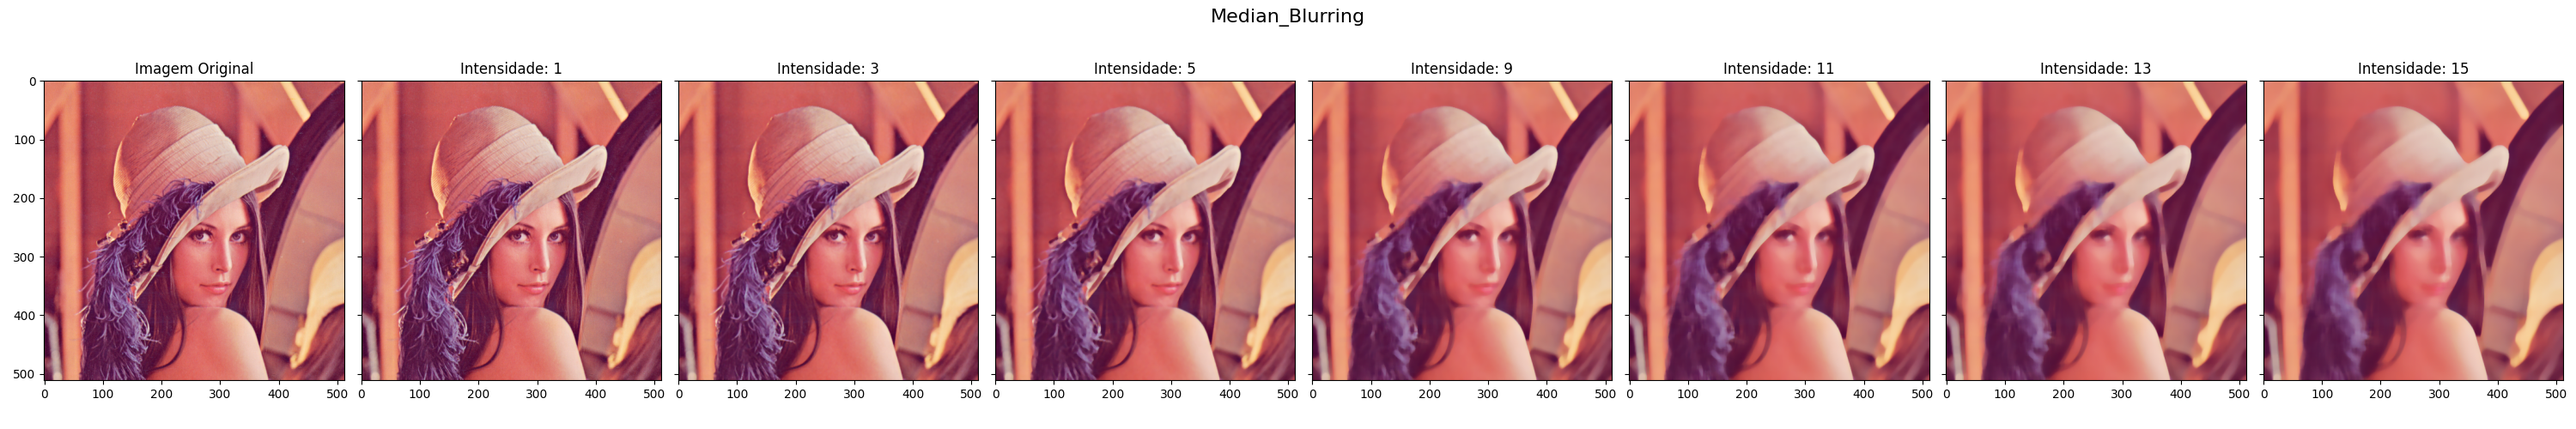
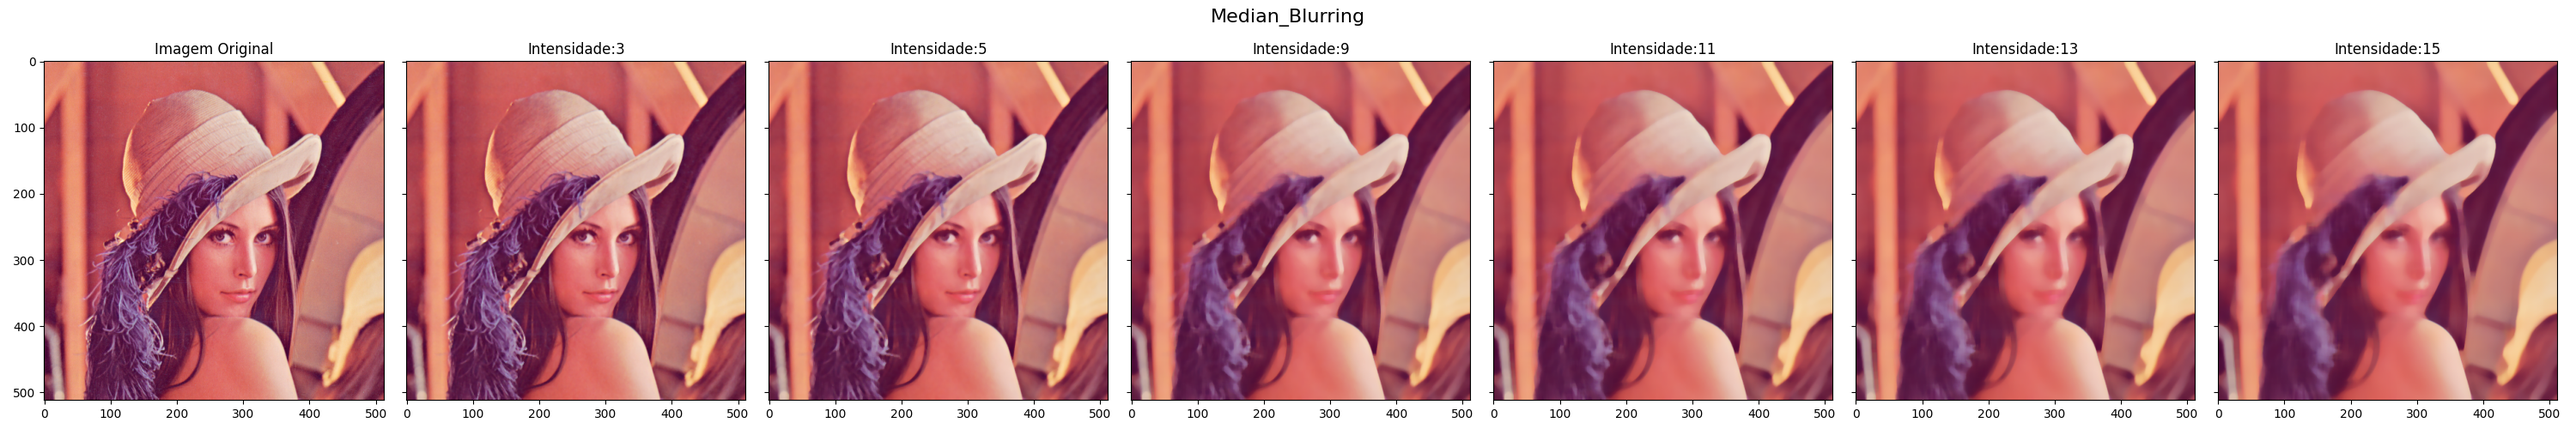
Adicionando diretorio para geração de degradação com Menu

diff --git a/Gera_degrad_com_Menu/gerar_degradacoes.py b/Gera_degrad_com_Menu/gerar_degradacoes.py
@@ -1,0 +1,97 @@
+import cv2
+import numpy as np
+
+class Degradacoes:
+    def __init__(self, caminho):
+        self.caminho = caminho
+        self.img_original = cv2.imread(self.caminho)
+
+    def Gaussian_Blurring(self, k):
+        imagem = cv2.GaussianBlur(self.img_original, (k, k), 0)
+        return imagem
+
+    def Median_Blurring(self, k):
+        imagem = cv2.medianBlur(self.img_original, k)
+        return imagem
+
+    def Brightness(self, parametros):
+        a, b = parametros[0], parametros[1]
+        imagem = cv2.convertScaleAbs(self.img_original, a, b)
+        return imagem
+
+    def Darkening_Brightness(self, g):
+        gamma = -5
+        invGamma = 1 / (gamma * g)
+        table = np.array([((i / 255) ** invGamma) * 255 for i in np.arange(0, 256)])
+        imagem = cv2.LUT(self.img_original.astype(np.uint8), table.astype(np.uint8))
+        return imagem
+
+    def Contrast(self, k):
+        lab = cv2.cvtColor(self.img_original, cv2.COLOR_BGR2LAB)
+        l_channel, a, b = cv2.split(lab)
+        clahe = cv2.createCLAHE(clipLimit=2.0 + k, tileGridSize=(8, 8))
+        cl = clahe.apply(l_channel)
+        limg = cv2.merge((cl, a, b))
+        imagem = cv2.cvtColor(limg, cv2.COLOR_LAB2BGR)
+        return imagem
+
+    def Downsampled(self, k):
+        imagem = cv2.pyrDown(self.img_original, k)
+        return imagem
+
+    def Motion_Blur(self, k):
+        k_v = np.zeros((k, k))
+        k_v[:, int((k - 1) / 2)] = np.ones(k)
+        k_v /= k
+        imagem = cv2.filter2D(self.img_original, -1, k_v)
+        return imagem
+
+    def Gaussian_noise(self, k):
+        image = self.img_original.astype(np.float32)
+        shape = image.shape[:2]
+        var = np.random.uniform(0, 0.1)
+        sigma = var ** 0.5
+        gamma = 0.25
+        alpha = 0.75
+        beta = 1 - alpha
+        gaussian = np.random.normal(loc=k, scale=sigma, size=(shape[0], shape[1], 1)).astype(np.float32)
+        gaussian = np.concatenate((gaussian, gaussian, gaussian), axis=2)
+        gaussian_img = cv2.addWeighted(image, alpha, beta * gaussian, beta, gamma)
+        return gaussian_img
+
+    def JPEG_Compression(self, k):
+        encode_param = [int(cv2.IMWRITE_JPEG_QUALITY), k]
+        result, encimg = cv2.imencode('.jpg', self.img_original, encode_param)
+        decimg = cv2.imdecode(encimg, 1)
+        return result
+
+def menu_degradacoes():
+    print("Escolha uma degradação:")
+    print("1 - Desfoque Gaussiano")
+    print("2 - Desfoque Mediano")
+    print("3 - Ajuste de Brilho")
+    escolha = int(input("Digite o número da degradação desejada: "))
+    return escolha
+
+def aplicar_degradacao(escolha):
+    imagem = r'lenna.png'
+    obj_degradacao = Degradacoes(imagem)
+
+    if escolha == 1:
+        intensidade = int(input("Digite a intensidade do desfoque gaussiano: "))
+        imagem_degradada = obj_degradacao.Gaussian_Blurring(intensidade)
+        mostrar_imagem(imagem_degradada)
+    elif escolha == 2:
+        intensidade = int(input("Digite a intensidade do desfoque mediano: "))
+        imagem_degradada = obj_degradacao.Median_Blurring(intensidade)
+        mostrar_imagem(imagem_degradada)
+    elif escolha == 3:
+        parametros = [float(input("Digite o valor de 'alpha' (1.0 - 3.0): ")), int(input("Digite o valor de 'beta' (0 - 99): "))]
+        imagem_degradada = obj_degradacao.Brightness(parametros)
+        mostrar_imagem(imagem_degradada)
+    # Adicione mais opções conforme necessário
+
+def mostrar_imagem(imagem):
+    plt.imshow(imagem, cmap='gray')
+    plt.axis('off')
+    plt.show()

diff --git a/G_degrad.py b/G_degrad.py
@@ -1,34 +1,55 @@
 import gerar_degradacoes
-import cv2
+import cv2 
 from matplotlib import pyplot as plt
 
 imagem = r'lenna.png'
 
-def mostrar_imagens(degradacao, intensidades, imagens):
-    fig, axes = plt.subplots(nrows=1, ncols=len(intensidades) + 1, figsize=(30, 5), sharex=True, sharey=True)
-    fig.suptitle(degradacao, fontsize=16)
+def mostrar_imagens(degradacao, intensidades, i1,i2,i3,i4,i5,i6,i7):
+    fig,(ax1,ax2,ax3,ax4,ax5,ax6,ax7) = plt.subplots(nrows=1,
+                                                        ncols=7,
+                                                        figsize=(30,5),
+                                                        sharex=True,
+                                                        sharey=True)
+    fig.suptitle(degradacao,fontsize=16)
 
-    axes[0].imshow(imagens[0])
-    axes[0].set_title('Imagem Original')
+    ax1.imshow(i1)
+    ax1.set_title('Imagem Original')
 
-    for i in range(1, len(axes)):
-        axes[i].imshow(imagens[i], cmap='gray', vmin=0, vmax=255)
-        axes[i].set_title(f'Intensidade: {intensidades[i - 1]}')
+    ax2.imshow(i2,cmap='gray')
+    ax2.set_title(f'Intensidade:{intensidades[1]}')
+
+    ax3.imshow(i3,cmap='gray')
+    ax3.set_title(f'Intensidade:{intensidades[2]}')
+
+    ax4.imshow(i4,cmap='gray',vmin=0,vmax=255)
+    ax4.set_title(f'Intensidade:{intensidades[3]}')
+
+    ax5.imshow(i5,cmap='gray',vmin=0,vmax=255)
+    ax5.set_title(f'Intensidade:{intensidades[4]}')
+
+    ax6.imshow(i6,cmap='gray',vmin=0,vmax=255)
+    ax6.set_title(f'Intensidade:{intensidades[5]}')
+
+    ax7.imshow(i7,cmap='gray',vmin=0,vmax=255)
+    ax7.set_title(f'Intensidade:{intensidades[6]}')
 
     plt.tight_layout()
     plt.savefig(f'./graficos/{degradacao}.png')
     plt.show()
 
 obj_degradacao = gerar_degradacoes.Degradacoes(imagem)
+imagens_processadas=[]
 degradacao = 'Median_Blurring'
-intensidades = [1, 3, 5, 9, 11, 13, 15]
+intensidades = [1,3,5,9,11,13,15]
 
-imagens_processadas = [cv2.cvtColor(obj_degradacao.img_original, cv2.COLOR_BGR2RGB)]
 
-for intensidade in intensidades:
+for i, intensidade in enumerate(intensidades):
     if intensidade == 0:
         imagens_processadas.append(cv2.cvtColor(obj_degradacao.img_original, cv2.COLOR_BGR2RGB))
     else:
         imagens_processadas.append(cv2.cvtColor(obj_degradacao.Median_Blurring(intensidade), cv2.COLOR_BGR2RGB))
 
-mostrar_imagens(degradacao, intensidades, imagens_processadas)
+
+mostrar_imagens(degradacao, intensidades,imagens_processadas[0], imagens_processadas[1], imagens_processadas[2],
+                imagens_processadas[3], imagens_processadas[4], imagens_processadas[5],
+                imagens_processadas[6])

diff --git a/Gera_degrad_com_Menu/G_degrad.py b/Gera_degrad_com_Menu/G_degrad.py
@@ -1,0 +1,31 @@
+import cv2
+from matplotlib import pyplot as plt
+import gerar_degradacoes
+
+imagem = r'lenna.png'
+obj_degradacao = gerar_degradacoes.Degradacoes(imagem)
+
+def mostrar_imagem(imagem):
+    plt.imshow(imagem, cmap='gray')
+    plt.axis('off')
+    plt.show()
+
+def aplicar_degradacao(escolha):
+    if escolha == 1:
+        intensidade = int(input("Digite a intensidade do desfoque gaussiano: "))
+        imagem_degradada = obj_degradacao.Gaussian_Blurring(intensidade)
+        mostrar_imagem(imagem_degradada)
+    elif escolha == 2:
+        intensidade = int(input("Digite a intensidade do desfoque mediano: "))
+        imagem_degradada = obj_degradacao.Median_Blurring(intensidade)
+        mostrar_imagem(imagem_degradada)
+    elif escolha == 3:
+        parametros = [float(input("Digite o valor de 'alpha' (1.0 - 3.0): ")), int(input("Digite o valor de 'beta' (0 - 99): "))]
+        imagem_degradada = obj_degradacao.Brightness(parametros)
+        mostrar_imagem(imagem_degradada)
+    # Adicione mais opções conforme necessário
+
+# Execução do programa
+if __name__ == "__main__":
+    opcao = gerar_degradacoes.menu_degradacoes()
+    aplicar_degradacao(opcao)
